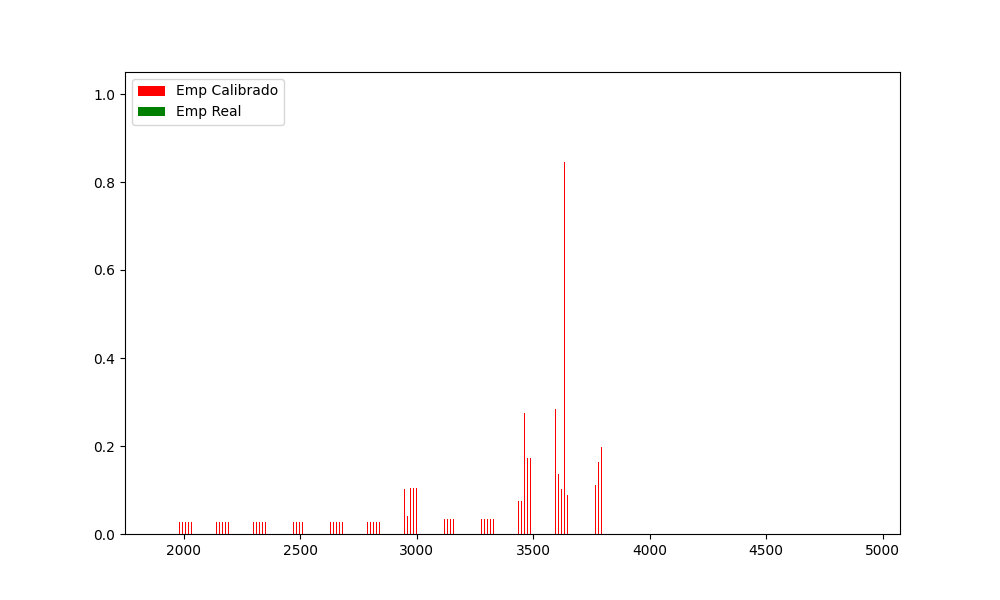
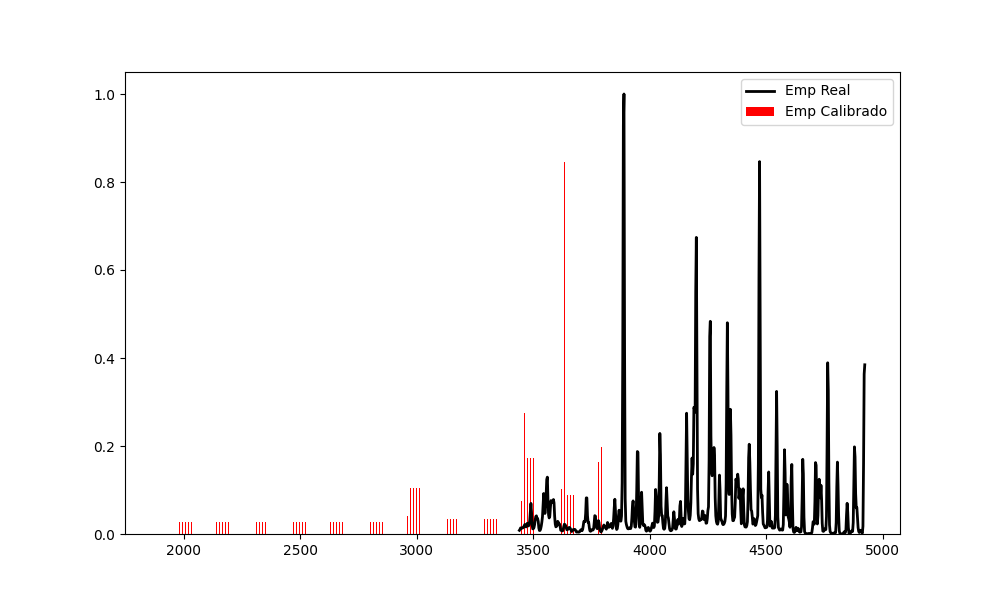
Prueba de graficado

Changed region(s): [[0.496, 0.15, 0.868, 0.9], [0.124, 0.12, 0.279, 0.21], [0.744, 0.12, 0.899, 0.21]]

diff --git a/DTWPorVentanasEmp(pic).py b/DTWPorVentanasEmp(pic).py
@@ -17,7 +17,7 @@ from tqdm import tqdm
 import matplotlib.pyplot as plt
 from scipy.signal import find_peaks
 from Calibration import Calibration
-from utils import getfileData, normalize_min_max, slice_with_range_step, gaussianice_arr, subconj_generator
+from utils import getfileData, normalize_min_max, slice_with_range_step, gaussianice_arr, subconj_generator, calibrate_with_observations
 from NIST_Table_Interactor import NIST_Table_Interactor
 
 def calibrate_for_windows(teo_slices_x:list, teo_slices_y:list, obs_y:list, obs_long_min:int, 
@@ -117,6 +117,7 @@ for filename in tqdm(FILES, desc=f'Porcentaje de avance'):
     # Longitud de onda minima y maxima del observado calibrado
     obs_long_min = obs_headers['CRVAL1'] + 0*obs_headers['CD1_1']
     obs_long_max = obs_headers['CRVAL1'] + (len(obs_data)-1)*obs_headers['CD1_1']
+    obs_calib_real = calibrate_with_observations(obs_data, obs_headers['CRVAL1'], obs_headers['CD1_1'])
     
     # Separacion de datos observados para el eje X y el eje Y
     obs_x = range(len(obs_data))
@@ -160,8 +161,10 @@ for filename in tqdm(FILES, desc=f'Porcentaje de avance'):
     plt.figure(figsize=(10, 6))
     
     # Graficar la señal y los picos
+    print([obs_long_min,obs_long_max])
     plt.bar(best_calibration.arr_X, best_calibration.arr_Y, label='Emp Calibrado', alpha=1, color='red', linewidth=2)
-    plt.bar([obs_long_min,obs_long_max], [1,1], label='Emp Real', alpha=1, color='green', linewidth=2)
+    plt.plot(obs_calib_real, obs_y, label='Emp Real', alpha=1, color='black', linewidth=2)
+    # Falta la funcion
     #plt.plot(obs_x, obs_y, label='Empirico', alpha=1, color='black', linewidth=0.5, linestyle='--')
 
     plt.legend()
